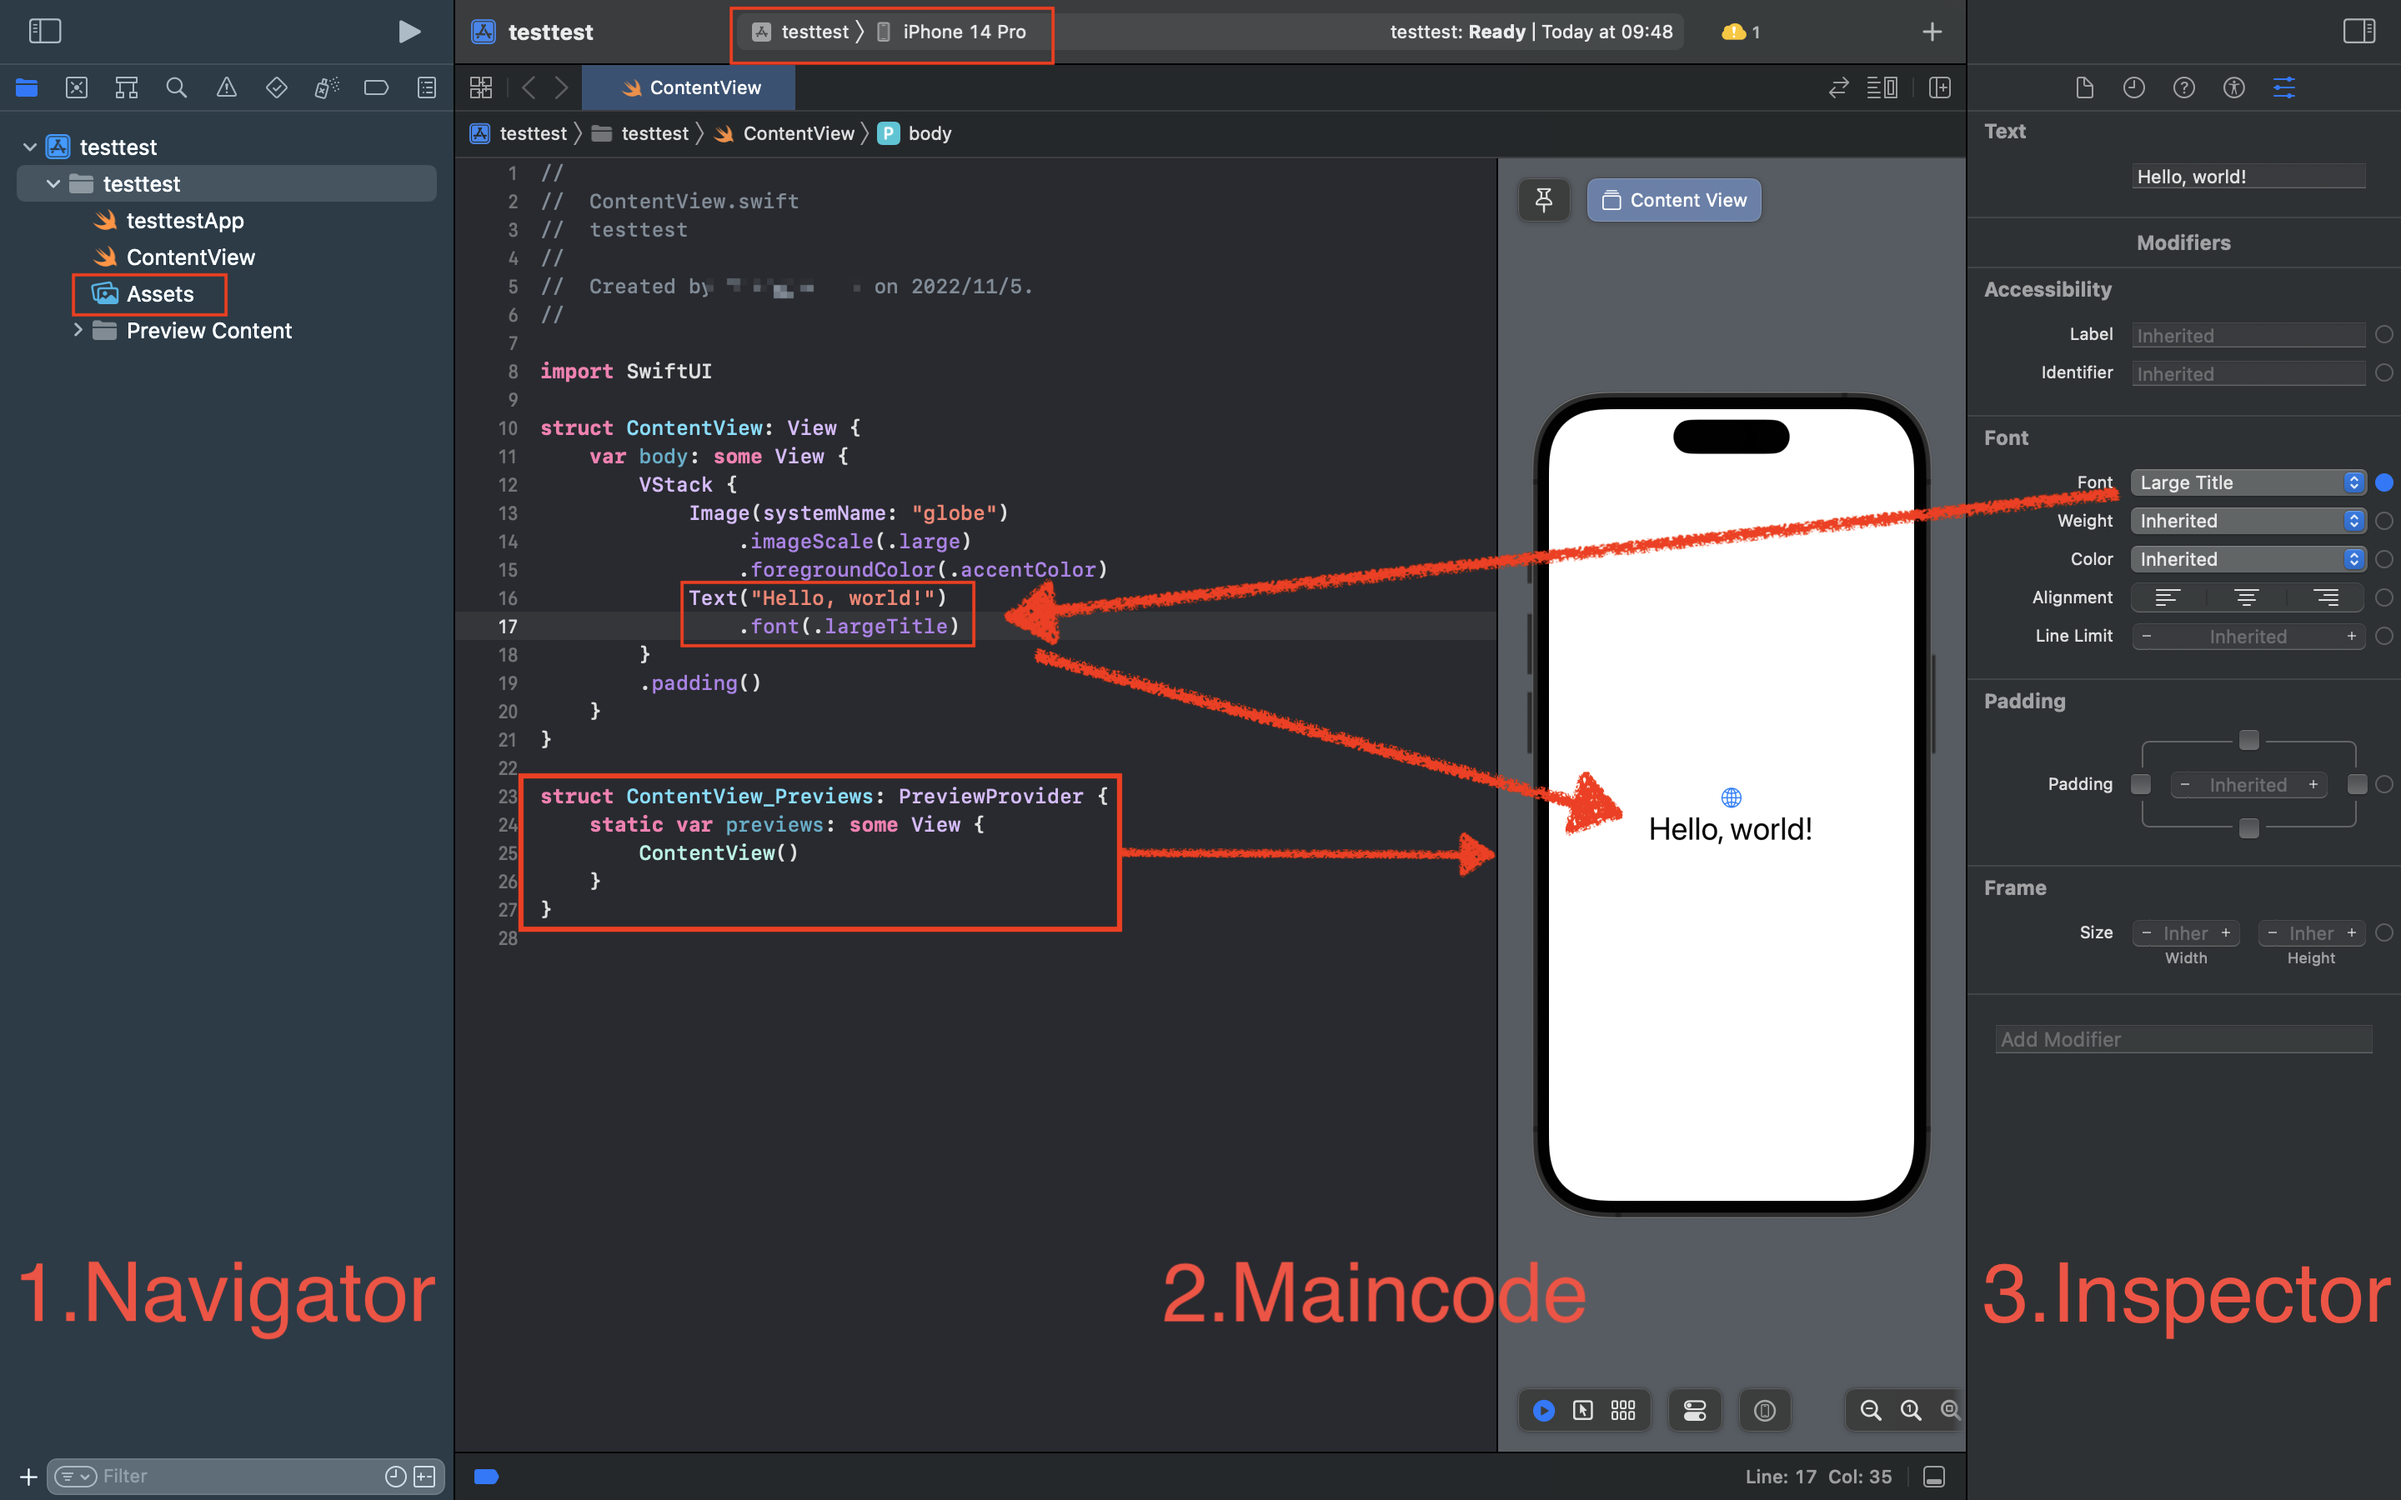
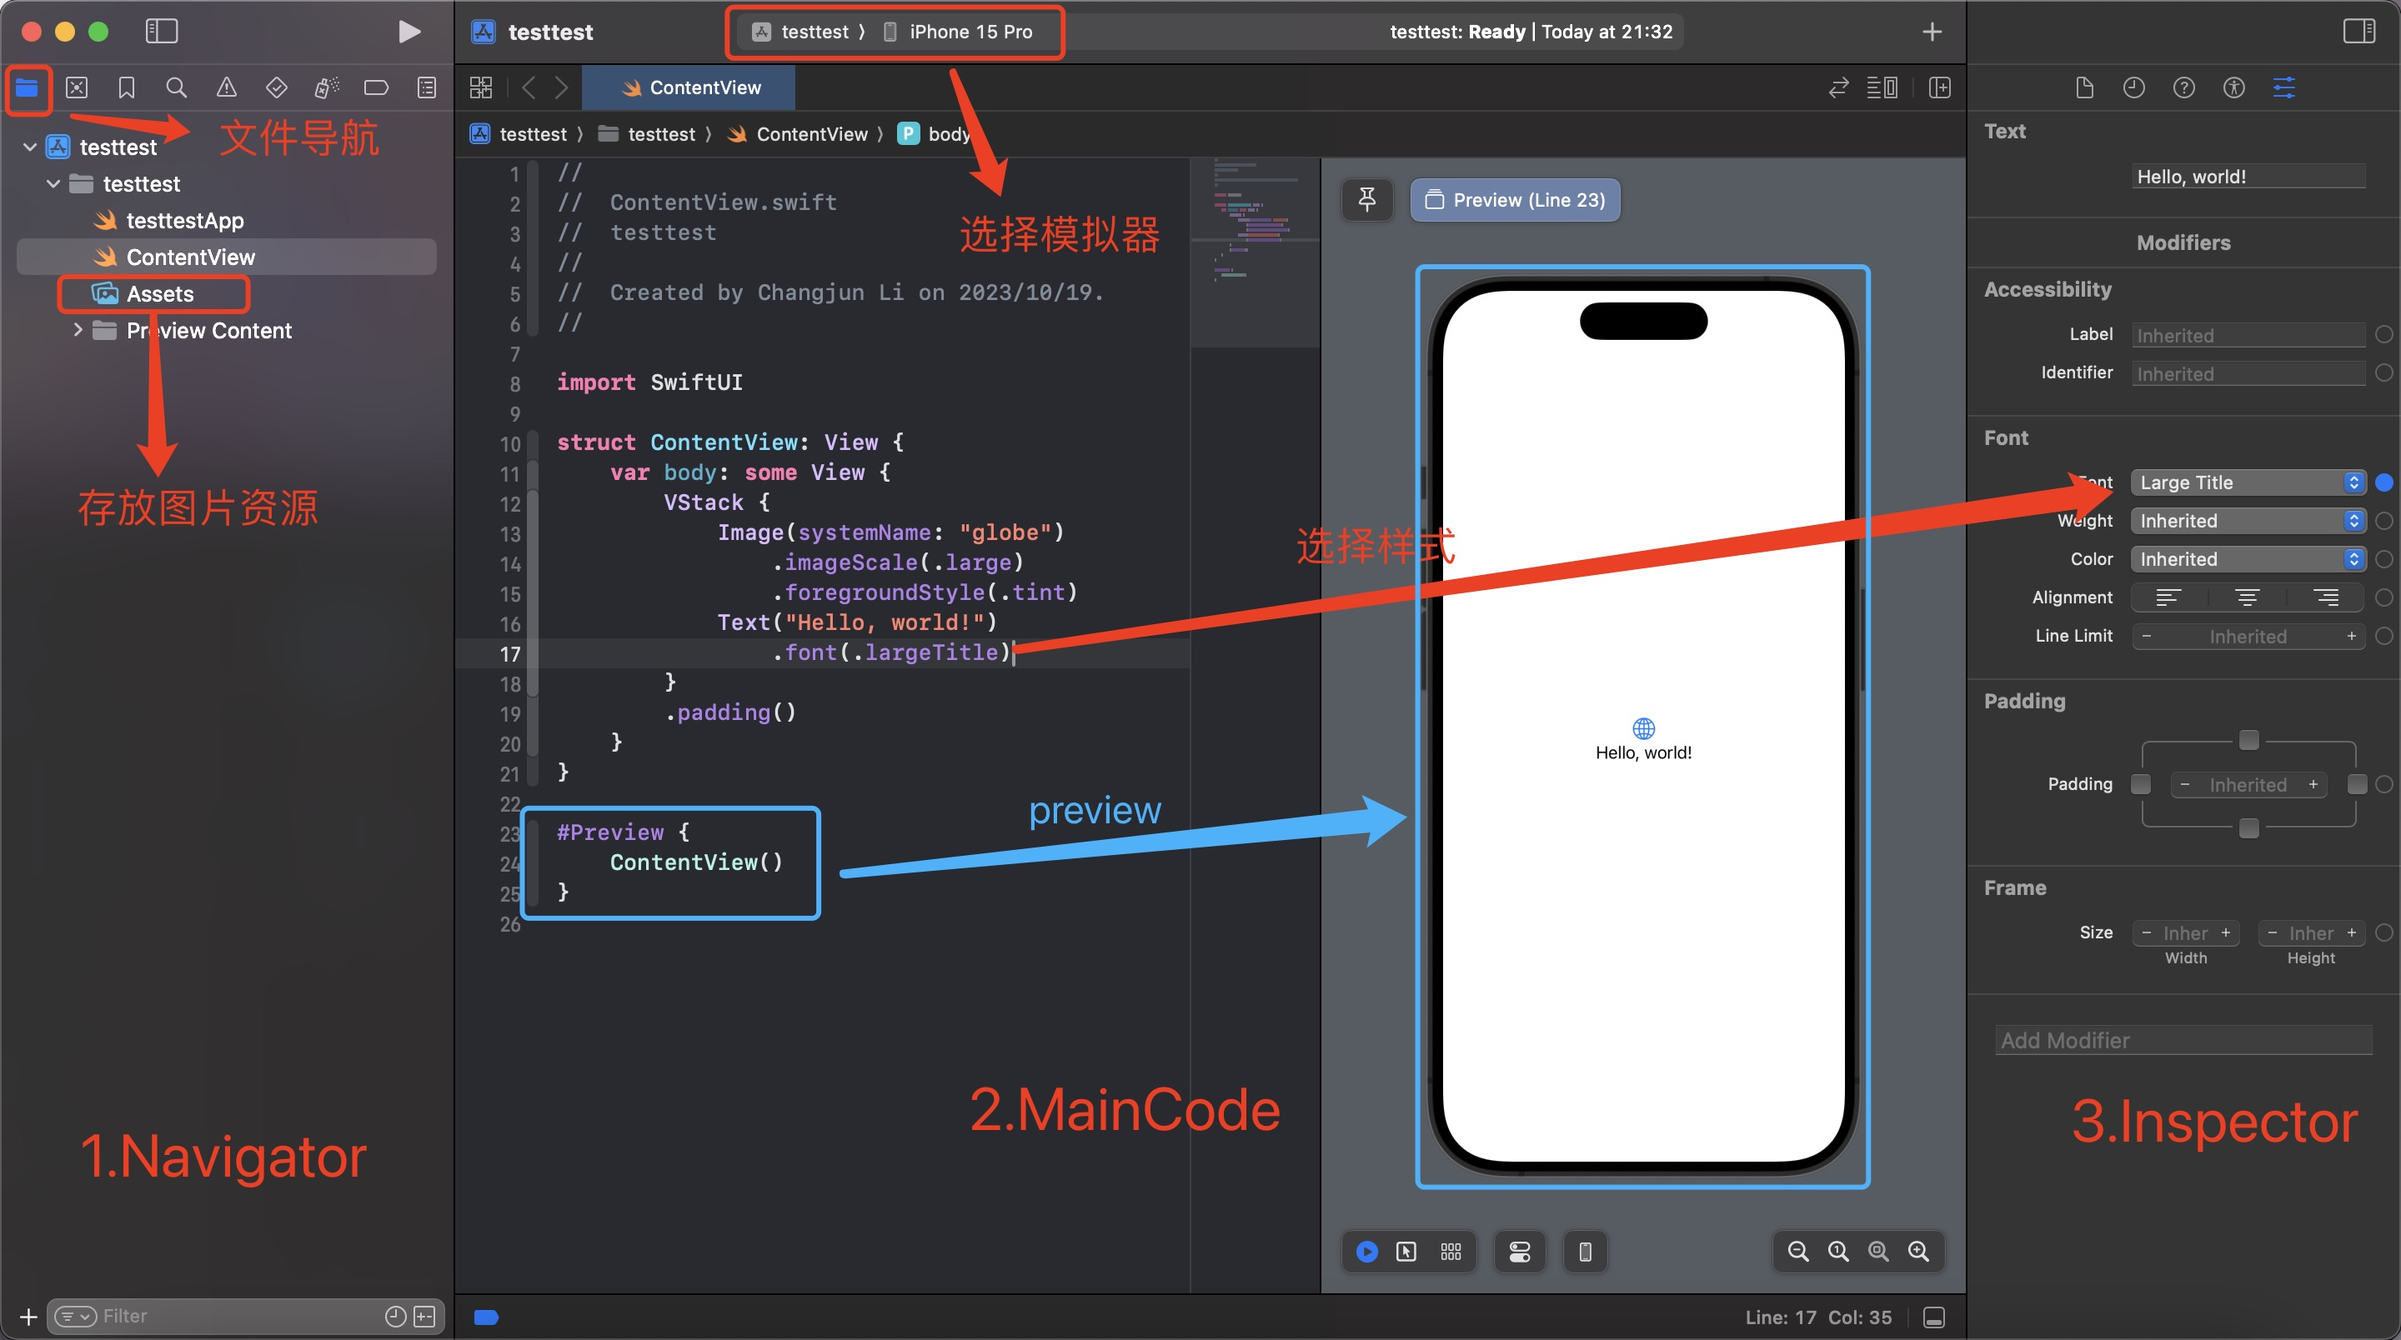
更新入门教程

diff --git a/posts/2023/begin_with_ios/index.html b/posts/2023/begin_with_ios/index.html
@@ -33,7 +33,7 @@
 
 
 <meta name="author" content="WHlcj" />
-<meta name="description" content="总结本人入门iOS踩过的坑，为后来者提供较为轻松的入门教程，本教程会根据iOS开发的更新及发展情况以及本人后续的一些想法不时进行更新或修正————本入门篇持续更新中！（2023.4.28）
+<meta name="description" content="总结本人入门iOS踩过的坑，为后来者提供较为轻松的入门教程，本教程会根据iOS开发的更新及发展情况以及本人后续的一些想法不时进行更新或修正————本入门篇持续更新中！（2023.10.19）
 " />
 
 
@@ -44,7 +44,7 @@
 
 
 <meta property="og:title" content="iOS开发入门" />
-<meta property="og:description" content="总结本人入门iOS踩过的坑，为后来者提供较为轻松的入门教程，本教程会根据iOS开发的更新及发展情况以及本人后续的一些想法不时进行更新或修正————本入门篇持续更新中！（2023.4.28）" />
+<meta property="og:description" content="总结本人入门iOS踩过的坑，为后来者提供较为轻松的入门教程，本教程会根据iOS开发的更新及发展情况以及本人后续的一些想法不时进行更新或修正————本入门篇持续更新中！（2023.10.19）" />
 <meta property="og:type" content="article" />
 <meta property="og:url" content="https://whlcj.github.io/posts/2023/begin_with_ios/" /><meta property="article:section" content="posts" />
 <meta property="article:published_time" content="2022-11-04T23:55:24+08:00" />
@@ -55,7 +55,7 @@
 
 <meta name="twitter:card" content="summary"/>
 <meta name="twitter:title" content="iOS开发入门"/>
-<meta name="twitter:description" content="总结本人入门iOS踩过的坑，为后来者提供较为轻松的入门教程，本教程会根据iOS开发的更新及发展情况以及本人后续的一些想法不时进行更新或修正————本入门篇持续更新中！（2023.4.28）"/>
+<meta name="twitter:description" content="总结本人入门iOS踩过的坑，为后来者提供较为轻松的入门教程，本教程会根据iOS开发的更新及发展情况以及本人后续的一些想法不时进行更新或修正————本入门篇持续更新中！（2023.10.19）"/>
 
 
 <link rel="stylesheet" href="https://cdn.jsdelivr.net/npm/semantic-ui@2.4.2/dist/semantic.min.css">
@@ -210,7 +210,7 @@
       <article class="main">
         
 
-        <p>总结本人入门iOS踩过的坑，为后来者提供较为轻松的入门教程，本教程会根据iOS开发的更新及发展情况以及本人后续的一些想法不时进行更新或修正————<strong>本入门篇持续更新中！（2023.4.28）</strong></p>
+        <p>总结本人入门iOS踩过的坑，为后来者提供较为轻松的入门教程，本教程会根据iOS开发的更新及发展情况以及本人后续的一些想法不时进行更新或修正————<strong>本入门篇持续更新中！（2023.10.19）</strong></p>
 <p>本教程仅针对想学习iOS但是苦于摸不到门道的初学者。</p>
 <blockquote>
 <p>目前环境：</p>
@@ -223,13 +223,14 @@
 </span><span style="white-space:pre;user-select:none;margin-right:0.4em;padding:0 0.4em 0 0.4em;color:#7f7f7f">4
 </span></code></pre></td>
 <td style="vertical-align:top;padding:0;margin:0;border:0;;width:100%">
-<pre tabindex="0" style="color:#f8f8f2;background-color:#282a36;-moz-tab-size:4;-o-tab-size:4;tab-size:4;"><code class="language-fallback" data-lang="fallback"><span style="display:flex;"><span>macOS: Ventura 13.5.2
-</span></span><span style="display:flex;"><span>Xcode: 14.3.1
-</span></span><span style="display:flex;"><span>swift: 5.7
-</span></span><span style="display:flex;"><span>SwiftUI: 4.0
+<pre tabindex="0" style="color:#f8f8f2;background-color:#282a36;-moz-tab-size:4;-o-tab-size:4;tab-size:4;"><code class="language-fallback" data-lang="fallback"><span style="display:flex;"><span>macOS: Sonoma 14.0
+</span></span><span style="display:flex;"><span>Xcode: 15.0
+</span></span><span style="display:flex;"><span>swift: 5.9
+</span></span><span style="display:flex;"><span>SwiftUI: 5.0
 </span></span></code></pre></td></tr></table>
 </div>
-</div><h2 id="基础工具">基础工具</h2>
+</div><p>需要提醒一下的是入门iOS对swift以及swiftUI的版本要求不是很高，虽然这两个东西版本一直在迭代，但是并不需要你随时掌握最新的特性，个人推荐swift5.5，swiftUI4.0就行，最新的特性往往也不会被推广和适配，企业级开发中使用的是oc+UIkit。</p>
+<h2 id="基础工具">基础工具</h2>
 <p>iOS开发需要用到的语言主要是Swift与Objective-C,ide是mac跟部分iPad独有的Xcode（单有iPhone可不行！）</p>
 <p>Xcode可直接App Store上获取：    </p>
 <p><img src="/imgs/2023/iOS%E5%BC%80%E5%8F%91%E5%85%A5%E9%97%A8/2.png" alt=""></p>
@@ -253,12 +254,11 @@
 关于工程的存放位置需要提醒一点的是，你可以在个人页创建一个名为“Developer”的文件夹，将自动显示为带一个“🔨”标记的特殊文件夹。一般来说将工程文件放在这个文件夹里会比较“正规”。但是，你也可以随便将工程文件夹放在任何你想放的位置。<br>
 下面来介绍Xcode的主要界面及功能：</p>
 <p><img src="/imgs/2023/iOS%E5%BC%80%E5%8F%91%E5%85%A5%E9%97%A8/11.png" alt=""></p>
-<p><strong>主页面从左到右分为：1.Navigator  2.Maincode  3.Inspector三块（不同地方对这三大块的说法也许不同</strong></p>
+<p><strong>主页面从左到右分为：1.Navigator  2.Maincode  3.Inspector三块（不同地方对这三大块的说法也许不同。此外，部分元素已在图中标出</strong></p>
 <ul>
-<li>Navigator下的“Assets”是你存放资源的地方，比如你的app的图标和页面插图等等</li>
 <li>Maincode顶上方可选择你需要的模拟器，右边的“▶”则是搭建工程，且同时运行模拟器</li>
 <li>Inspector的功能则是调整，修改视图的属性。比如这里我就把图中的“Text”的字体大小调整为了“Large Title”</li>
-<li><strong>需要注意的是</strong>主页面你看到的Maincode中的预览只是下面“struct ContentView_Previews”代码的实现。</li>
+<li><strong>需要注意的是</strong>主页面你看到的Maincode中的预览只是下面“#Preview”&mdash;-老版本为“struct ContentView_Previews”但是这两者可以通用&mdash;-代码的实现。</li>
 <li>如果你想进行swift语法练习，（个人推荐）可以在Navigator工程包下新建一个playground文件并将其拖出工程，即可直接进行练习。</li>
 </ul>
 <p>其他具体功能就留给大家自行探索啦～</p>
@@ -277,8 +277,7 @@
 <li>control + I : 规整代码</li>
 </ul>
 <h2 id="啰嗦两句">啰嗦两句</h2>
-<p>iOS开发对于新人不很友好，一方面网上教程较少，另一方面行业更迭速度较快，同时swift语法部分内容较多。对于未接触过其他计算机语言的同学来说入门会比较困难。但是慢慢学，总会有一定收获。  推荐入门自学课程：<strong>斯坦福cs193p</strong>；b站上有搬运。b站还有Chaocode和Udemy的iOS开发课程很不错。
-最近（2023-9）发现b站的iOS开发者越来越多，也提供了不少很好的iOS开发教程，大家共勉！</p>
+<p>iOS开发对于新人不很友好，一方面网上教程较少，另一方面行业更迭速度较快，同时swift语法部分内容较多。对于未接触过其他计算机语言的同学来说入门会比较困难。但是慢慢学，总会有一定收获。  推荐入门自学课程：<strong>斯坦福cs193p</strong>；b站上有搬运，现在已经有2023年的版本。b站还有Chaocode和Udemy的iOS开发课程很不错。 这里只是列出几个我学习过程中接触的几个教程，也许并不适用于你，且每个人接触的资源都不一样，选中其中一两个认真学就好～</p>
 <p><strong>～终</strong></p>
       </article>
     </section>

diff --git a/tags/index.html b/tags/index.html
@@ -563,7 +563,7 @@
       <ul>
         
         <li>
-          <a href="/posts/2023/begin_with_ios/" title="总结本人入门iOS踩过的坑，为后来者提供较为轻松的入门教程，本教程会根据iOS开发的更新及发展情况以及本人后续的一些想法不时进行更新或修正————本入门篇持续更新中！（2023.4.28）">总结本人入门iOS踩过的坑，为后来者提供较为轻松的...</a>
+          <a href="/posts/2023/begin_with_ios/" title="总结本人入门iOS踩过的坑，为后来者提供较为轻松的入门教程，本教程会根据iOS开发的更新及发展情况以及本人后续的一些想法不时进行更新或修正————本入门篇持续更新中！（2023.10.19）">总结本人入门iOS踩过的坑，为后来者提供较为轻松的...</a>
         </li>
         
       </ul>

diff --git a/categories/技术/index.html b/categories/技术/index.html
@@ -593,7 +593,7 @@
       </p>
     </div>
     <div class="description">
-      <p>总结本人入门iOS踩过的坑，为后来者提供较为轻松的入门教程，本教程会根据iOS开发的更新及发展情况以及本人后续的一些想法不时进行更新或修正————<strong>本入门篇持续更新中！（2023.4.28）</strong></p>
+      <p>总结本人入门iOS踩过的坑，为后来者提供较为轻松的入门教程，本教程会根据iOS开发的更新及发展情况以及本人后续的一些想法不时进行更新或修正————<strong>本入门篇持续更新中！（2023.10.19）</strong></p>
     </div>
   </div>
 

diff --git a/page/2/index.html b/page/2/index.html
@@ -560,7 +560,7 @@
       </p>
     </div>
     <div class="description">
-      <p>总结本人入门iOS踩过的坑，为后来者提供较为轻松的入门教程，本教程会根据iOS开发的更新及发展情况以及本人后续的一些想法不时进行更新或修正————<strong>本入门篇持续更新中！（2023.4.28）</strong></p>
+      <p>总结本人入门iOS踩过的坑，为后来者提供较为轻松的入门教程，本教程会根据iOS开发的更新及发展情况以及本人后续的一些想法不时进行更新或修正————<strong>本入门篇持续更新中！（2023.10.19）</strong></p>
     </div>
   </div>
 

diff --git a/tags/ios/page/2/index.html b/tags/ios/page/2/index.html
@@ -395,7 +395,7 @@
       </p>
     </div>
     <div class="description">
-      <p>总结本人入门iOS踩过的坑，为后来者提供较为轻松的入门教程，本教程会根据iOS开发的更新及发展情况以及本人后续的一些想法不时进行更新或修正————<strong>本入门篇持续更新中！（2023.4.28）</strong></p>
+      <p>总结本人入门iOS踩过的坑，为后来者提供较为轻松的入门教程，本教程会根据iOS开发的更新及发展情况以及本人后续的一些想法不时进行更新或修正————<strong>本入门篇持续更新中！（2023.10.19）</strong></p>
     </div>
   </div>
 

diff --git a/page/3/index.html b/page/3/index.html
@@ -580,7 +580,7 @@
     <article class="ui attached segment card dream-card">
   <a class="image" href="https://whlcj.github.io/posts/hello_world/">
     
-    <img src="/img/1.jpg" alt="我的第一篇博客！" />
+    <img src="/img/4.jpg" alt="我的第一篇博客！" />
     
   </a>
 
